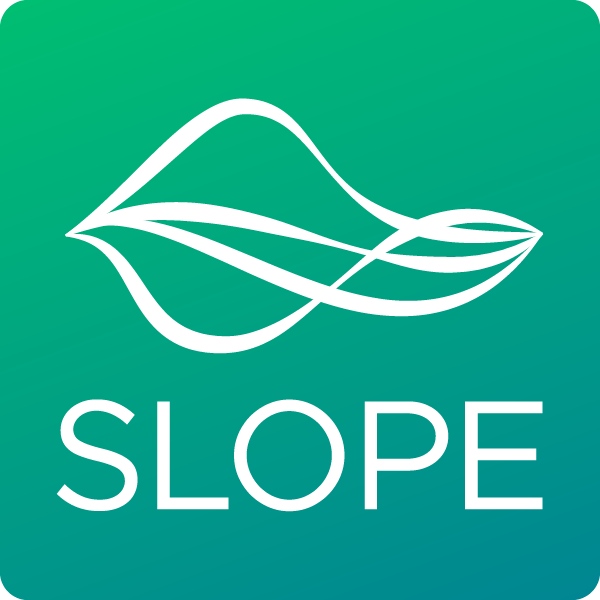
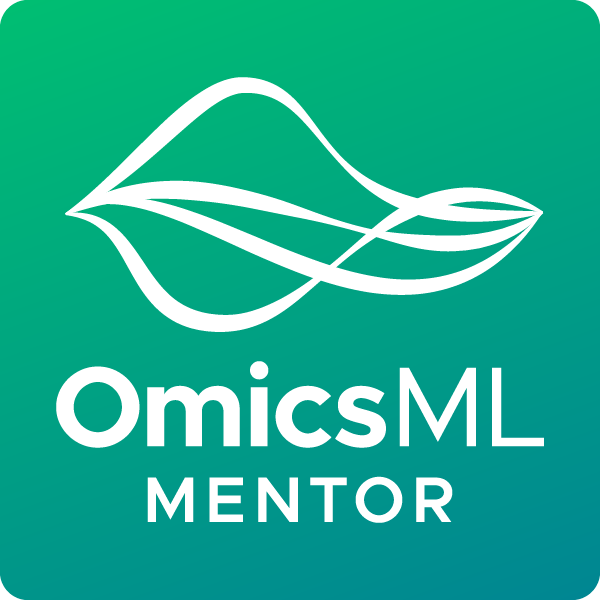
Updated SLOPE to Omics ML Mentor

Changed region(s): [[0.09, 0.12, 0.93, 0.87]]

diff --git a/README.md b/README.md
@@ -1,9 +1,9 @@
-# SLOPE-app
+# Omics ML Mentor
 
 <!-- badges: start -->
 <!-- badges: end -->
 
-SLOPE is a shiny application that serves as the frontend to the slopeR package.  
+Omics ML Mentor is a shiny application that serves as the frontend to the slopeR package.  
 It provides an interface to the machine learning capabilities of slopeR, including 
 expert mentor, which recommends machine learning models to use based on user 
 goals and data.  Users can upload data, perform various preprocessing steps such 
@@ -11,7 +11,7 @@ as filtering, normalization, and imputation, before running desired machine lear
 methods.  Results, including performance metrics and visualizations, as well as a 
 report are available for download at the end of the workflow.
 
-The MAP project version is available at `https://map.emsl.pnnl.gov/app/slope`.  
+The MAP project version is available at `https://map.emsl.pnnl.gov/app/omicsmlmentor`.  
 The Multiprobe project version is available at `https://multiprobe.us/slope/`. 
 
 # Running Locally

diff --git a/Main_app/Frontend_Static_UI/datareqs.md b/Main_app/Frontend_Static_UI/datareqs.md
@@ -1,8 +1,8 @@
-### <span style = 'color:navy'><strong>SLOPE – General Requirements</strong></span>
+### <span style = 'color:navy'><strong>Omics ML Mentor – General Requirements</strong></span>
 
 ***
 
-SLOPE requires quantitative ‘omics data to build a model. The following types of 'omics data are currently supported: 
+Omics ML Mentor requires quantitative ‘omics data to build a model. The following types of 'omics data are currently supported: 
 **Metabolomics**
     * NMR
         * By identified metabolites identified in the spectra
